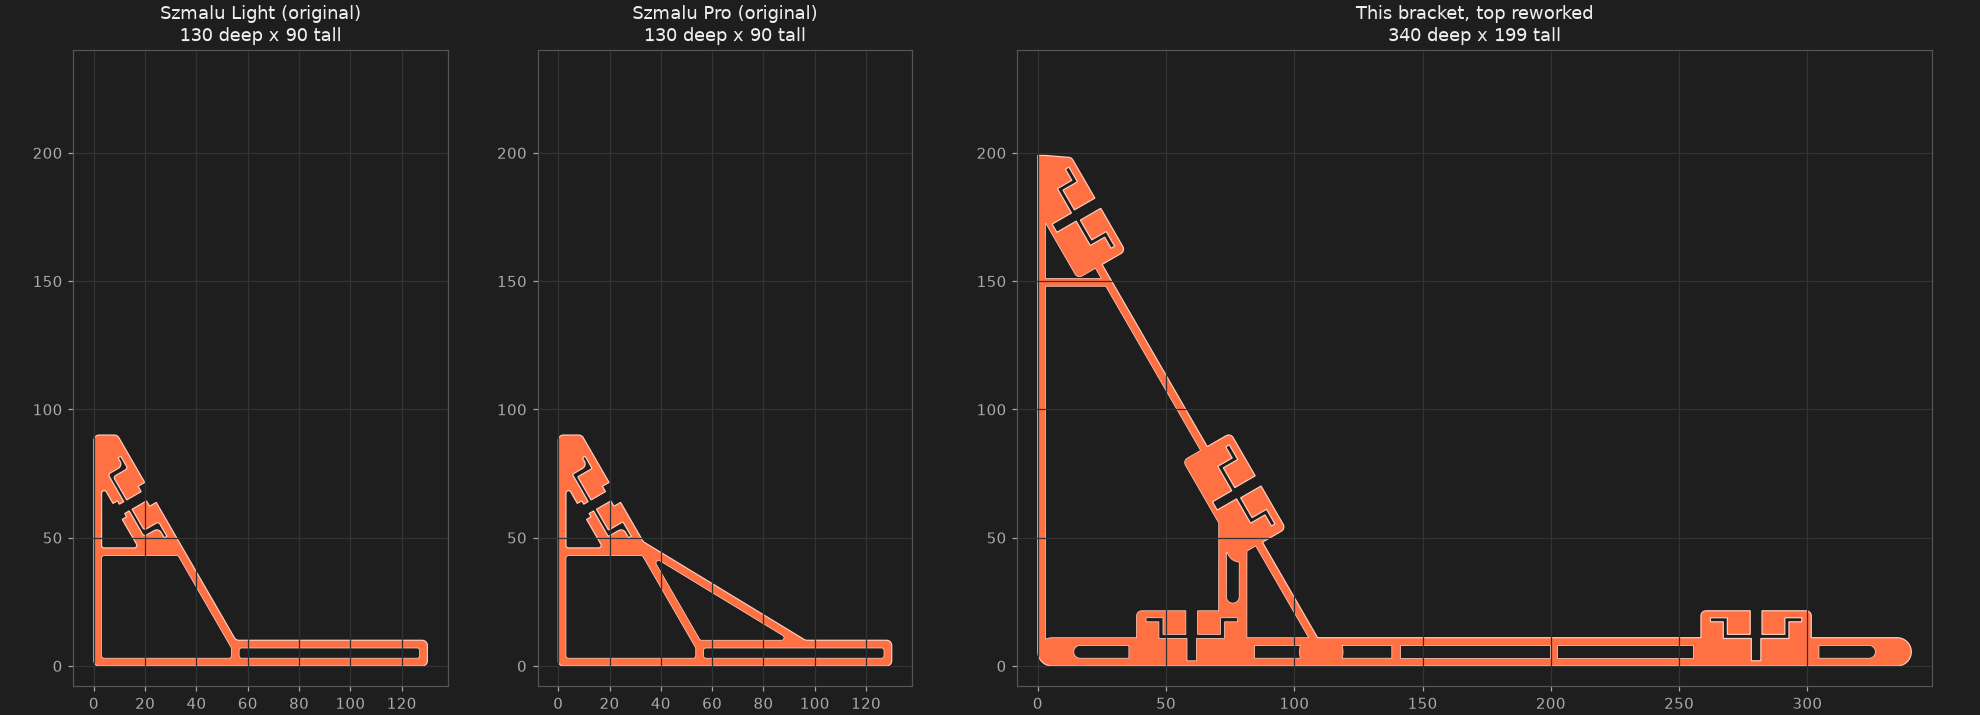
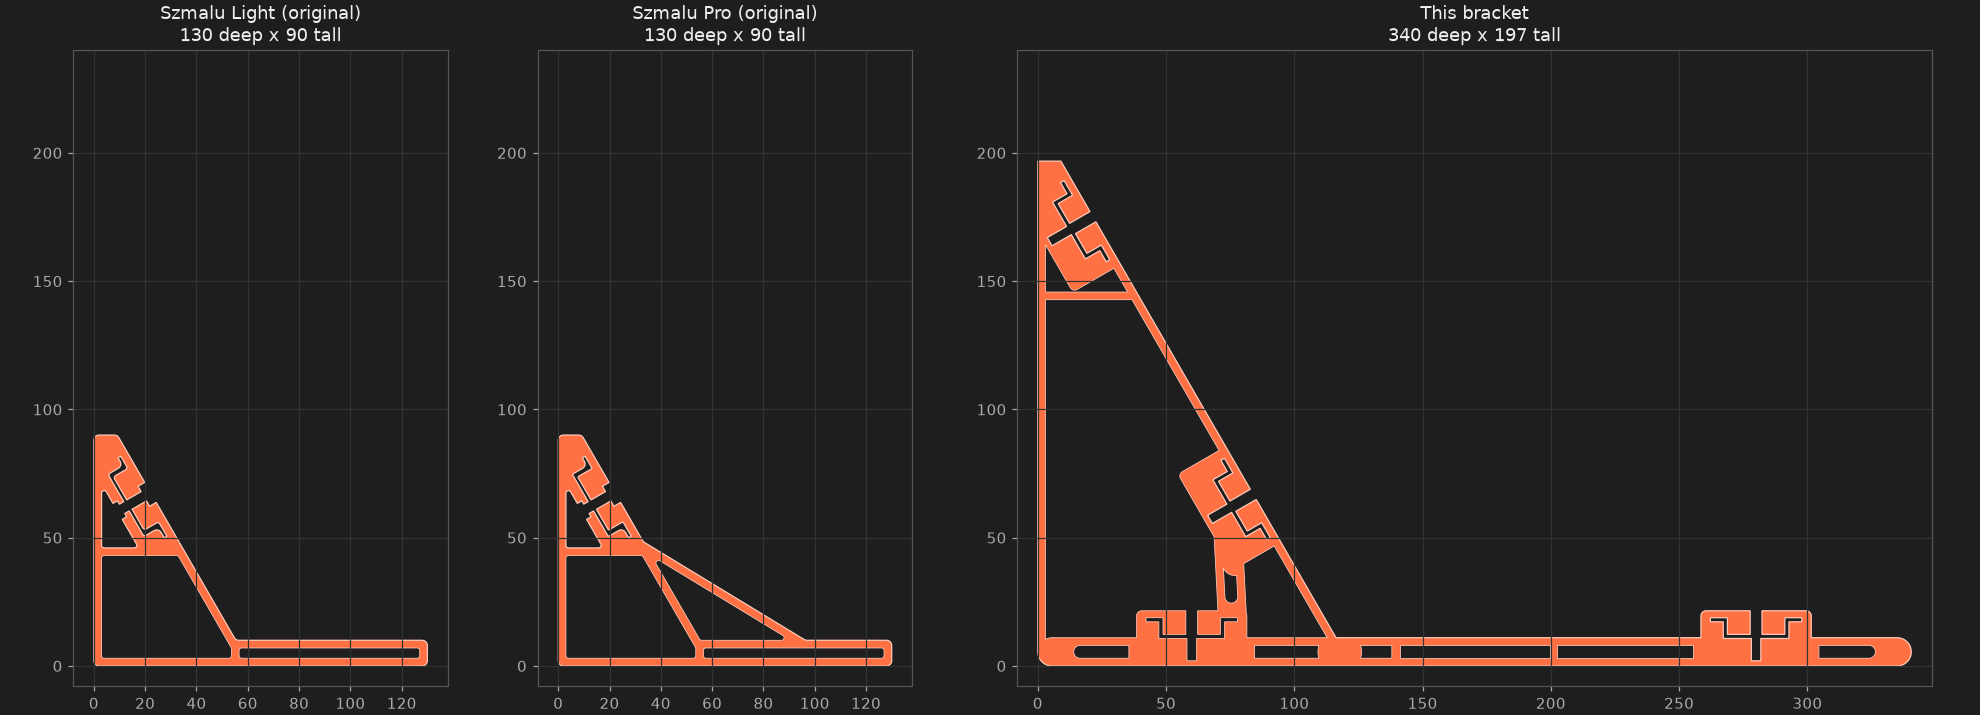
din-rail-bench-stand (WIP): top laid out as the original, checked by overlay; face rails set into the face so each block is flush with its outer line; the outer line meets the flat top 9 forward of the post's back, top rail centre 25 down it; tests follow, the back rail's envelope now clashes with t

Changed region(s): [[0.5237, 0.2154, 0.7086, 0.9231], [0.6778, 0.0, 0.801, 0.0308]]

diff --git a/projects/din-rail-bench-stand/test_model_scad.py b/projects/din-rail-bench-stand/test_model_scad.py
@@ -22,14 +22,15 @@ A = math.radians(P["a"])
 W, T = P["bar_w"], P["bracket_t"]
 U = np.array([-math.cos(A), math.sin(A)])
 N = np.array([math.sin(A), math.cos(A)])
-FACE_LEN = P["s1"] + P["pitch"] + 17.5 + P["block_wall"] + W / 2
-FOOT0 = np.array([W / 2 + P["face_shift"] + FACE_LEN * math.cos(A), W / 2])
-TOP = FOOT0 + FACE_LEN * U
+S = P["strut"]
+FACE_LEN = P["s1"] + P["pitch"] + P["rail_top"]
+FOOT0 = np.array([P["top_in"] - S / 2 * math.sin(A) + FACE_LEN * math.cos(A), W / 2])
+TOP_Y = (FOOT0 + FACE_LEN * U)[1] + S / 2 * math.cos(A)
 FOOT_LEN = P["flat_x"] + P["mod_h"] / 2 + 10
 
 
 def edge(s):
-    return FOOT0 + s * U + (W / 2) * N
+    return FOOT0 + s * U + (S / 2 - 7.5 - P["cover"]) * N
 
 
 UP = np.array([0.0, 1.0])
@@ -61,22 +62,29 @@ def test_one_watertight_piece(bracket):
 
 
 def test_bounds(bracket):
-    assert np.allclose(bracket.bounds, [[0, 0, 0], [FOOT_LEN + W / 2, TOP[1] + W / 2, T]], atol=0.1)
+    assert np.allclose(bracket.bounds, [[0, 0, 0], [FOOT_LEN + W / 2, TOP_Y, T]], atol=0.1)
 
 
-def test_braces_join_rail_blocks_below_the_rail_centre(bracket):
-    # crossbar: back post to the top block; diagonal: lower block to the back rail block. Each is solid at its
-    # middle and lands on its block's inner side, below the rail's centre line along the face
-    (c1, _), (c2, _), _, (cb, _) = SEATS
+def test_top_is_the_originals(bracket):
+    # as Szmalu's: a solid 3 mm post, flat on top, flush with the top rail block; the face's outer line meets the
+    # flat top top_in forward of the post's back; a 3 mm crossbar whose top meets the top block's bottom
+    assert solid(bracket, (S / 2, TOP_Y / 2)) and not solid(bracket, (S + 0.5, TOP_Y / 2))
+    assert solid(bracket, (P["top_in"] - 0.5, TOP_Y - 0.5)) and not solid(bracket, (P["top_in"] + 1.5, TOP_Y - 0.5))
+    c2 = SEATS[1][0]
+    low = local(c2, N, 17.5 + P["block_wall"], -W)[1]
+    assert solid(bracket, (S + 5, low - S / 2)) and not solid(bracket, (S + 5, low - S - 0.5))
+
+
+def test_diagonal_joins_the_tier_1_block_below_the_rail_centre(bracket):
+    (c1, _), _, _, (cb, _) = SEATS
     j1 = local(c1, N, P["below"], -W / 2)
-    j2 = local(c2, N, P["below"], -W / 2)
     k0 = np.array([P["back_x"] + 17.5 + P["block_wall"] - W / 2, W + 7.5 + P["cover"] - W / 2])
-    for a_, b_ in ((np.array([W / 2, j2[1]]), j2), (j1, k0)):
+    for a_, b_ in ((j1, k0),):
         d = (b_ - a_) / np.linalg.norm(b_ - a_)
         side = np.array([-d[1], d[0]])
         mid = (a_ + b_) / 2
         assert solid(bracket, mid + (W / 2 - P["strip"] / 2) * side) and solid(bracket, mid - (W / 2 - P["strip"] / 2) * side)
-    assert P["below"] > 0 and j2[1] < c2[1] and j1[1] < c1[1]
+    assert P["below"] > 0 and j1[1] < c1[1]
 
 
 def test_gauge_is_one_rail_block(tmp_path):
@@ -86,8 +94,8 @@ def test_gauge_is_one_rail_block(tmp_path):
 
 
 def test_volume_window(bracket):
-    bars = FOOT_LEN + TOP[1] + FACE_LEN + TOP[0]  # foot, back post, face, top bar centrelines
-    lo = bars * 2 * P["strip"] * T     # two strips per ladder bar; rungs, strut and rail blocks add to this
+    blocks = 4 * (35 + 2 * P["block_wall"]) * (W + 7.5 + P["cover"])   # rail slots come out of these
+    lo = (FOOT_LEN * 2 * P["strip"] + (TOP_Y + FACE_LEN) * S + blocks / 2) * T   # foot ladder, solid post and face
     assert lo < bracket.volume < 1.8 * lo
 
 
